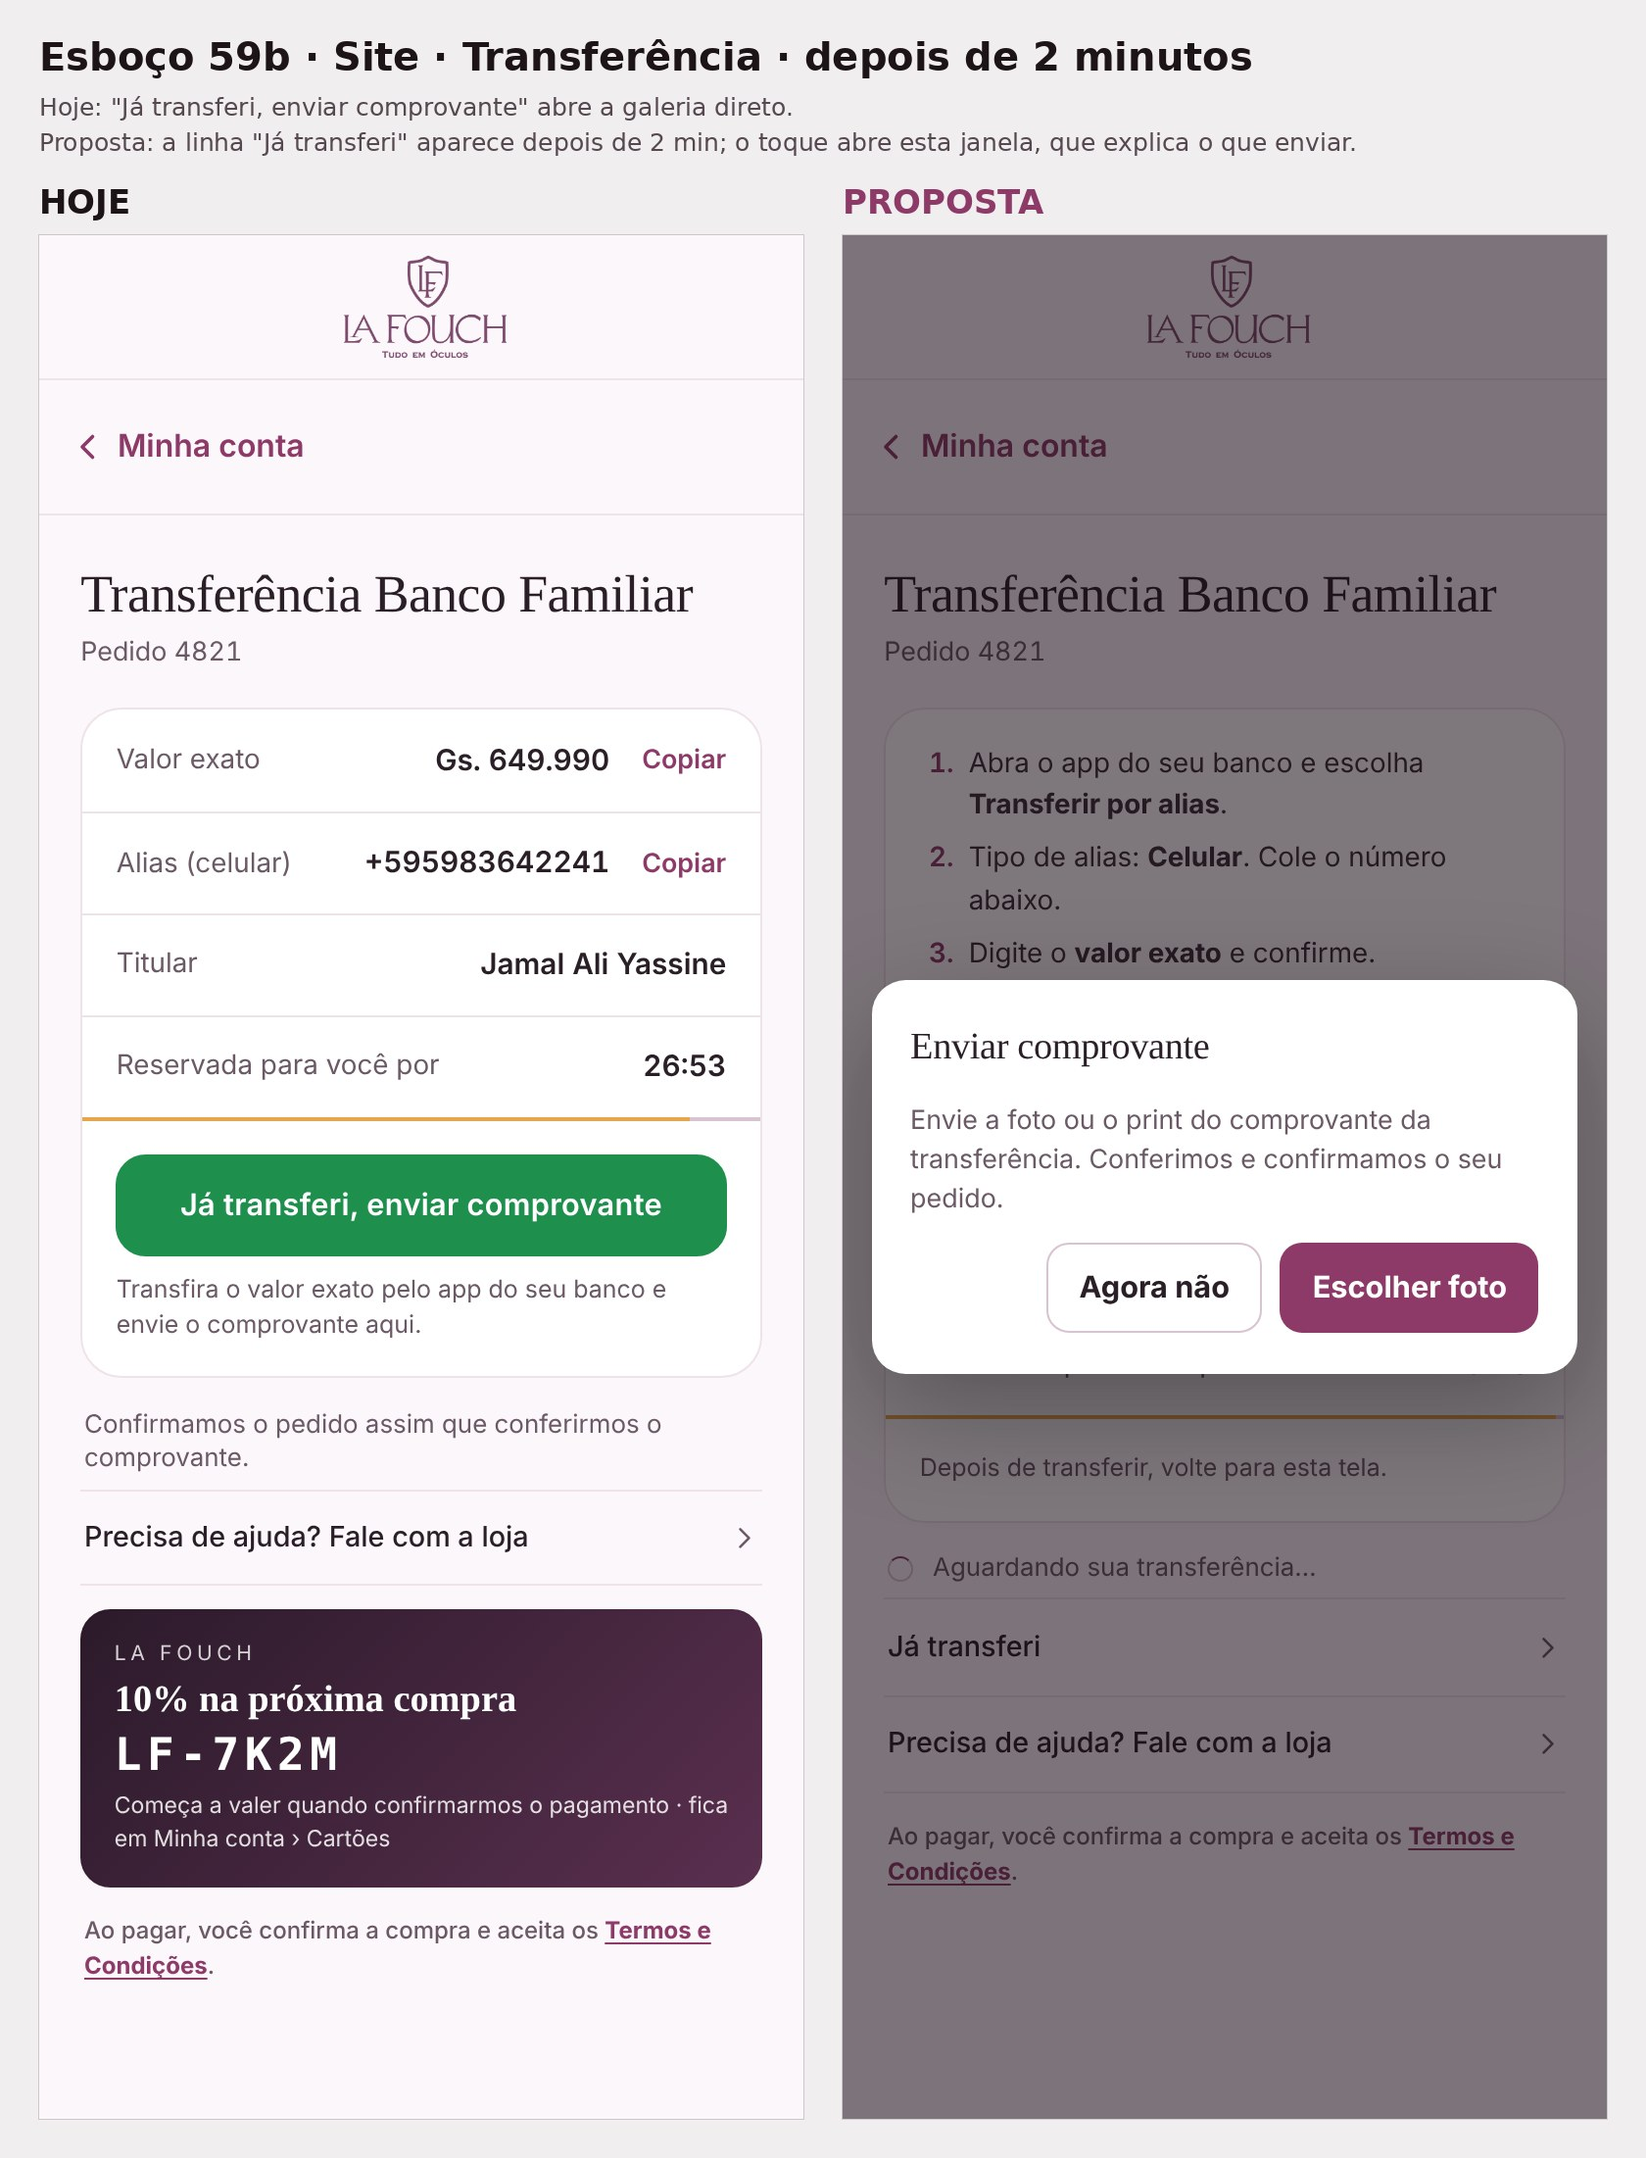
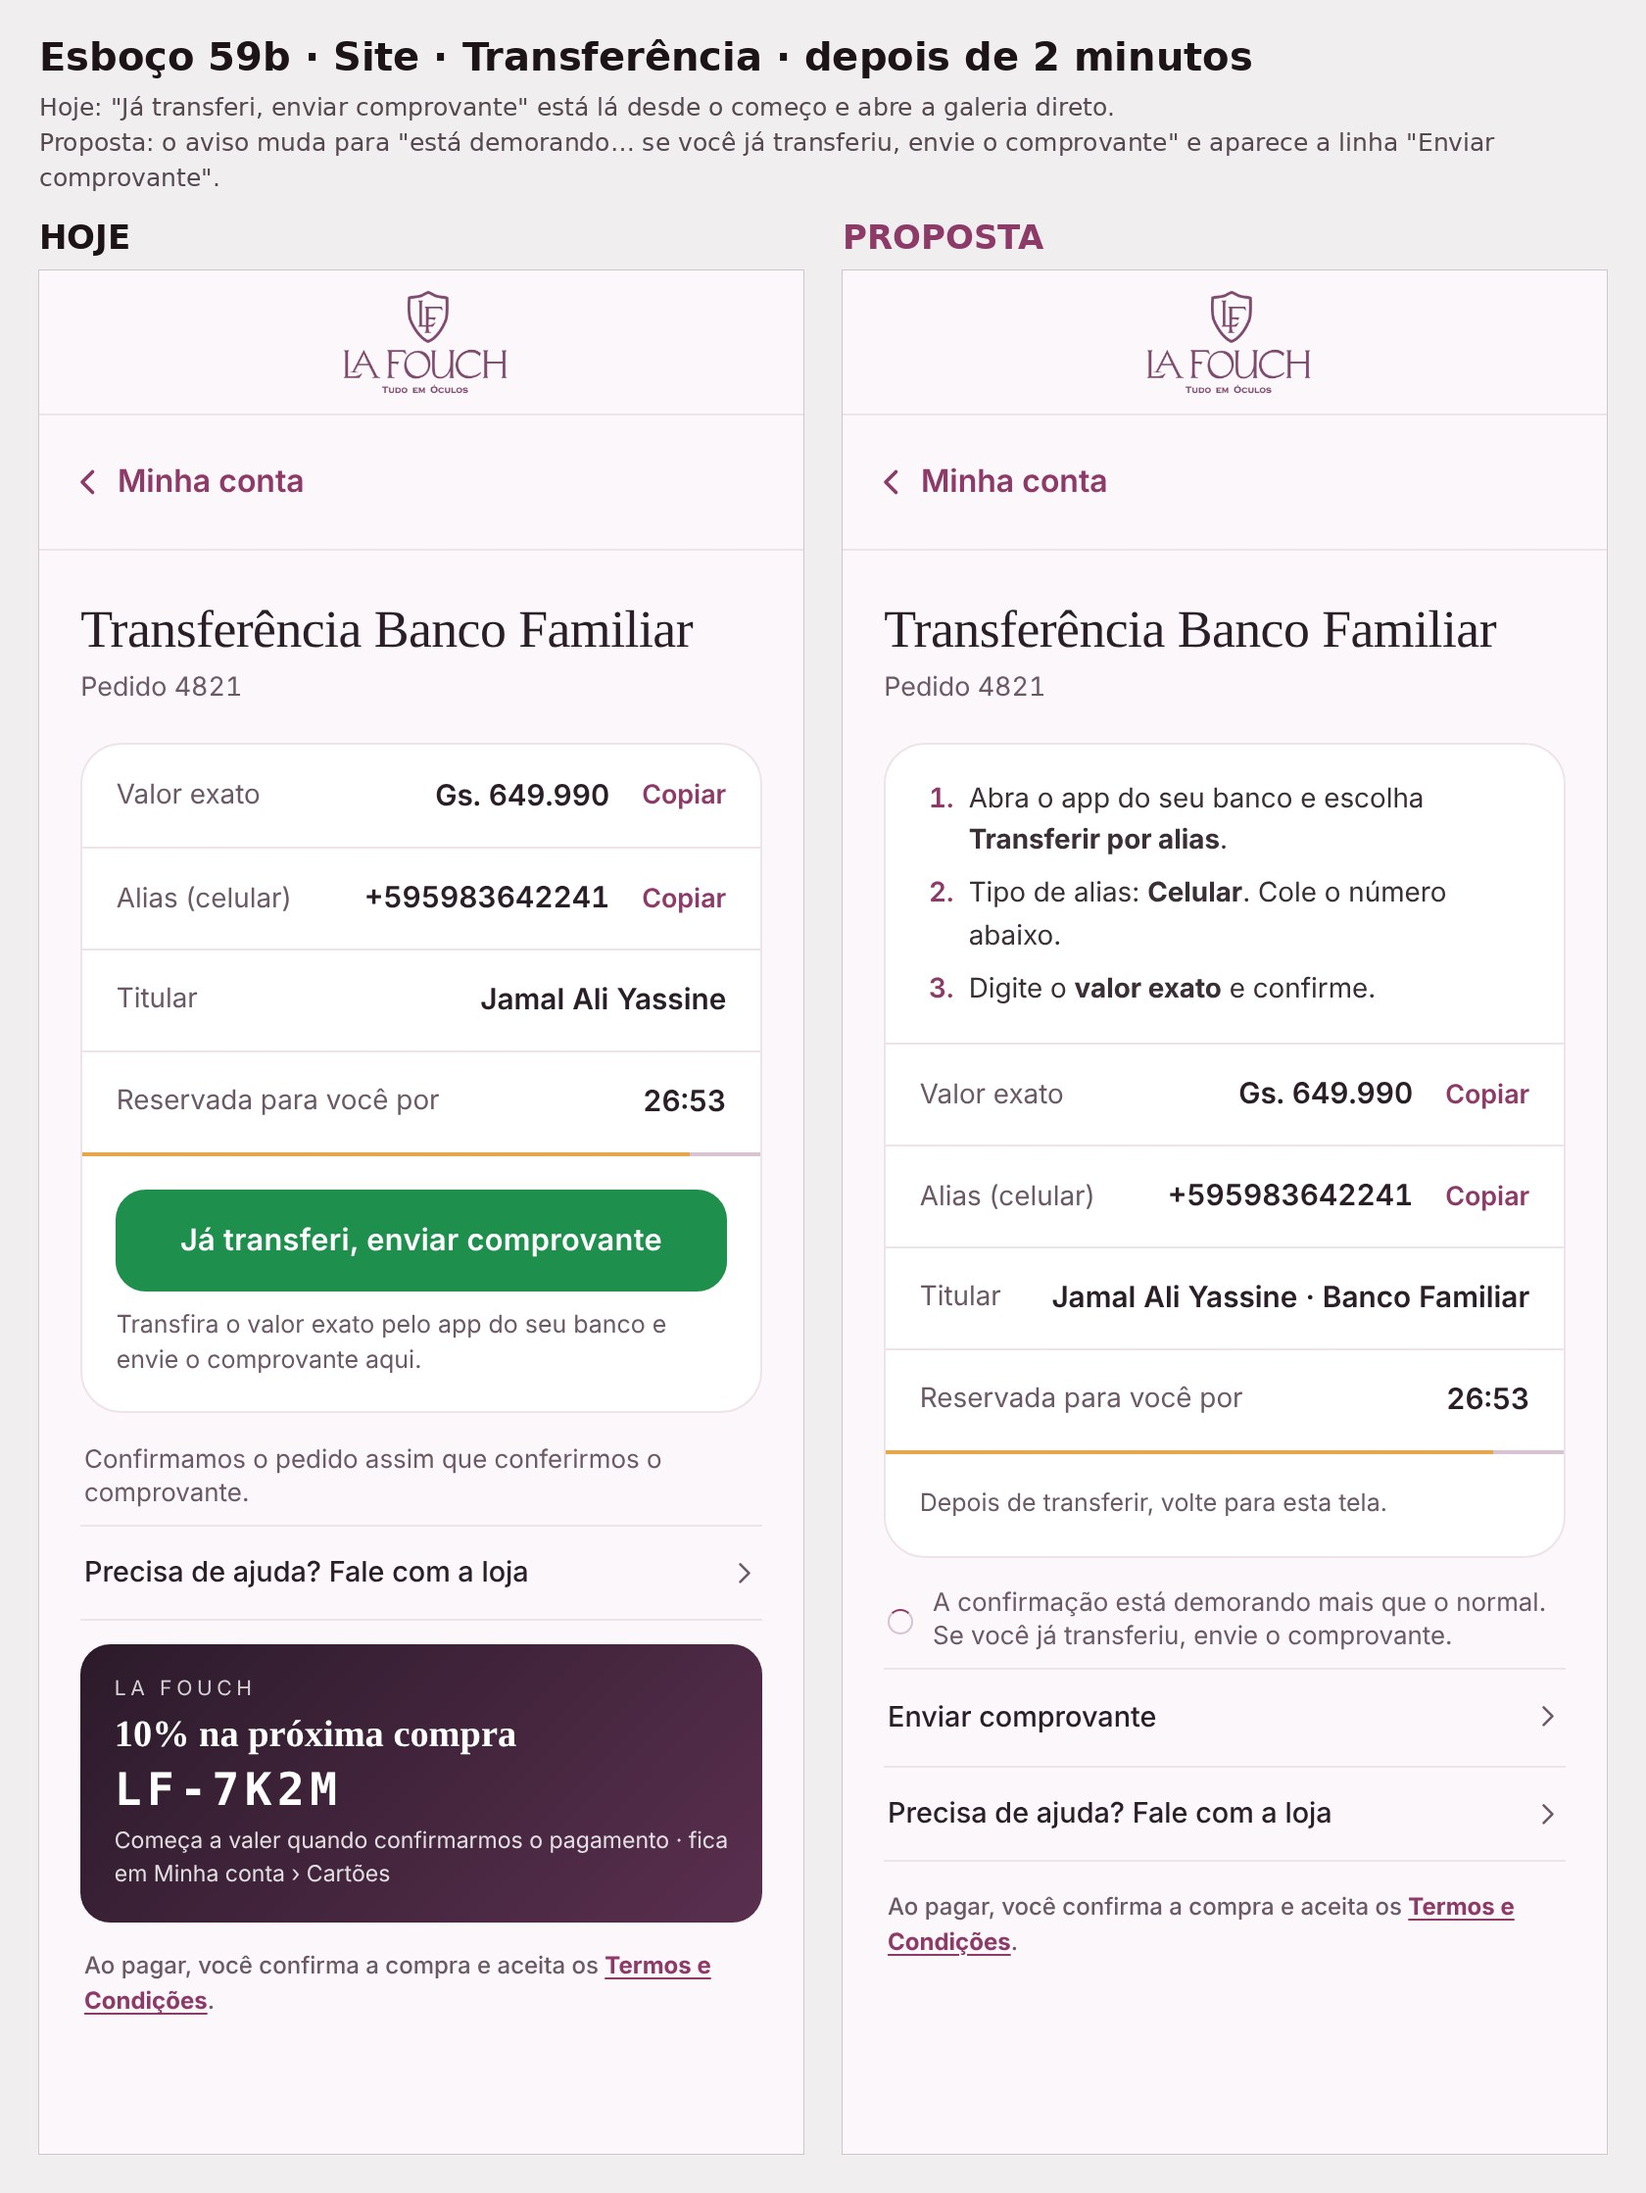
Esboço 59b refeito (aviso de demora + enviar comprovante); lista viva
Claude-Session: https://claude.ai/code/session_01Vj5GPR2QjandaFr6ascRKC

diff --git a/work/s395/esb_b.py b/work/s395/esb_b.py
@@ -1,0 +1,15 @@
+# S395b · esboço 59b refeito (dono, 16/11 19:01): depois de 2 min o "Aguardando sua transferência…" passa a dizer que a confirmação está demorando e que, se já pagou, pode enviar o comprovante.
+import sys;sys.path.insert(0,'/home/claude/lafouch/work/s395');sys.path.insert(0,'/home/claude/lafouch/work/s349')
+import pag,comum;comum.OUT='/home/claude/lafouch/work/s395/'
+from playwright.sync_api import sync_playwright
+E=open('/home/claude/lafouch/work/s395/esb.py').read();CSS=E.split('CSS="""')[1].split('"""')[0];P_TRF=E.split('P_TRF="""')[1].split('"""')[0]
+P2="""()=>{const o=document.getElementById('pkok');o.querySelector('.zs').innerHTML='<span class="spn"></span><span>A confirmação está demorando mais que o normal. Se você já transferiu, envie o comprovante.</span>';
+ const za=o.querySelector('.za'),a=za.querySelector('a.zA'),l=document.createElement('label');l.className='zA';l.innerHTML='<span>Enviar comprovante</span>'+(a.querySelector('svg')?a.querySelector('svg').outerHTML:'');za.insertBefore(l,a)}"""
+T='/tmp/s395/'
+def cheia(pg,arq,H):
+    pg.set_viewport_size({'width':390,'height':H});pg.wait_for_timeout(350);pg.screenshot(path=arq)
+with sync_playwright() as pw:
+    b,pg,w=pag.abre(pw,'alias',3);oh=comum.olho(pg);H=pg.evaluate("()=>Math.max(844,document.getElementById('pkok').scrollHeight+4)");cheia(pg,T+'b_h.png',H);b.close()
+    b,pg,w=pag.abre(pw,'alias',3);pg.add_style_tag(content=CSS);pg.evaluate(P_TRF);pg.evaluate(P2);w(300);op=comum.olho(pg);cheia(pg,T+'b_p.png',H);b.close()
+    print('falhas novas do olho:',sorted(op-oh)[:4])
+comum.prancha('59b-site-pagar-transferencia-comprovante.jpg','Esboço 59b · Site · Transferência · depois de 2 minutos',['Hoje: "Já transferi, enviar comprovante" está lá desde o começo e abre a galeria direto.','Proposta: o aviso muda para "está demorando… se você já transferiu, envie o comprovante" e aparece a linha "Enviar comprovante".'],T+'b_h.png',T+'b_p.png')

diff --git a/docs/FALTA-APROVAR-15-11.md b/docs/FALTA-APROVAR-15-11.md
@@ -296,3 +296,4 @@ Não são esquecimento (estavam na lista, parados de propósito ou por ordem do 
 - 16/11/2026 18:33 · DONO: "Aprovado" → ESBOÇO 75 (Ajustes, aba 8 dos botões) + 75v (animação do "Buscar atualização") APROVADOS, esperando "implementar": ícones da lista sem caixa; sai a linha "Preço automático › em Preços"; "Procurar impressora" em contorno rosa sem fundo; CHAVES (liga/desliga) FICAM AS ORIGINAIS (18:26: não gostou da troca); Sons sem emojis, som escolhido em contorno neutro, ▶ 44 px; "Buscar atualização", "Exportar", "Importar", "Conectar à nuvem", "Enviar aviso de teste" = secundárias neutras numa linha; títulos internos na mesma letra; Pagamento automático com espaço entre blocos; 75v: botão único que muda no lugar (toque aperta 2%, contorno rosa, "Procurando…" com anel fino girando, "✓ Você está na versão mais nova" com o ✓ se desenhando + "agora mesmo"; versão nova = "Atualizar para X ›" contorno rosa); troca de texto some/entra subindo 4 px em ~0,2 s, curva da Apple.
 - 16/11 18:37–18:47 — DONO: "problemas graves na aba de pagamento do site": (1) o cartão de desconto aparece antes de pagar → TIRAR da tela; o cliente ganha, mas DEPOIS QUE RECEBE A COMPRA, por E-MAIL, para não poluir a tela; (2) a transferência não explica como transferir pelo alias; (3) "Já paguei · enviar comprovante" confuso e aparece na hora; (4) nos dados do cliente o sistema não identifica Cédula × RUC do paraguaio (achado: a máscara põe hífen em toda cédula — 4567890 vira "456789-0"); (5) o teclado tampa "Confirmar e pagar"; (6) o cliente aperta voltar para tirar o teclado e telefone/cédula ficam em branco. "Elaborar esboço" → ESBOÇOS 59a–59e enviados (work/s395): 59a transferência ao abrir (passo a passo, sem botão, sem cartão) · 59b "Já transferi" depois de 2 min + janela "Enviar comprovante" · 59c PIX sem cartão · 59d Cédula | RUC · 59e tela encolhe com o teclado e o botão fica acima; o digitado fica guardado. NADA implementado. ESPERANDO aprovação e respostas: quando sai o e-mail do cartão (entrega/retirada marcada no app?), caminho "Transferir por alias" no app do banco, 2 min de espera.
 - 16/11/2026 18:58 · DONO: ESBOÇO 77 (Clientes + Conta atacadista, design novo; substitui o 76) "quase tudo aprovado" → 77 APROVADO, esperando "implementar", MENOS o topo de Clientes ("+ Novo cliente", "Atacado ›", "Cartões ›": não gostou). ESBOÇO 78 enviado, ESPERANDO escolha: A) "+" redondo 44 px ao lado do título + Atacado e Cartões como 2 linhas de cartão (ícone e frase) antes da busca; B) "+" redondo + abas em linha Clientes | Atacado | Cartões.
+- 16/11 19:01 — DONO sobre 59b: "só precisa atualizar 'Aguardando sua transferência' por algo que indique que o pagamento está demorando para processar e, se já pagou, pode enviar o comprovante" → 59b REFEITO (work/s395/esb_b.py): depois de 2 min o aviso vira "A confirmação está demorando mais que o normal. Se você já transferiu, envie o comprovante." + linha "Enviar comprovante". Sobre 59e perguntou "o botão voltar para de limpar os campos?" → respondido: sim (guardar o que é digitado na hora + não redesenhar o passo). ESPERANDO aprovação e as respostas (quando sai o e-mail do cartão; caminho no app do banco; 2 min).
